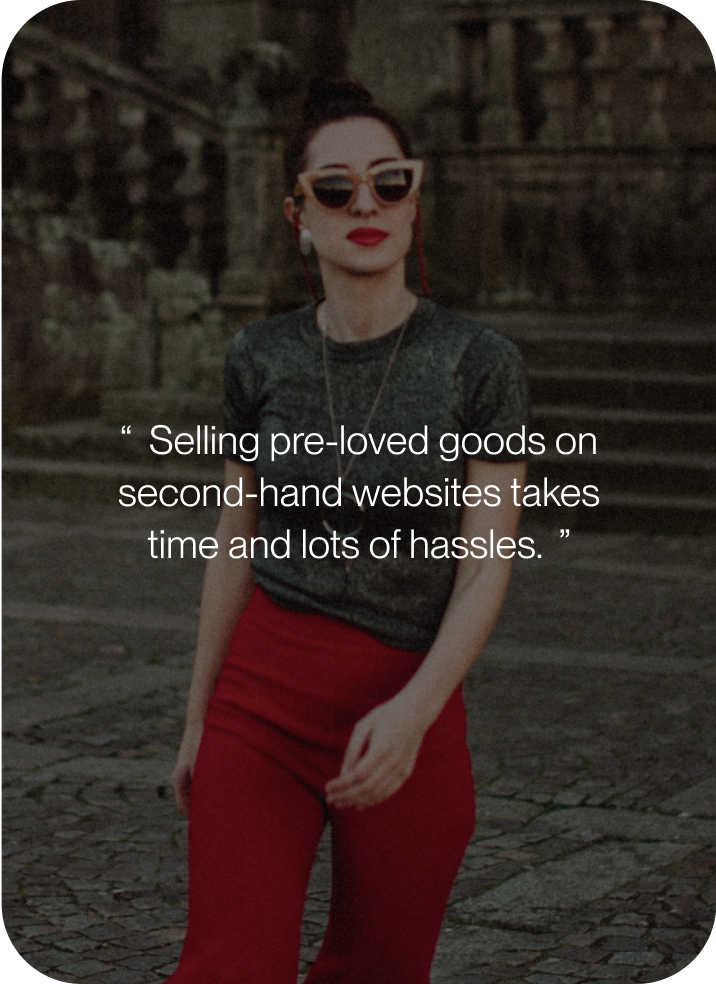
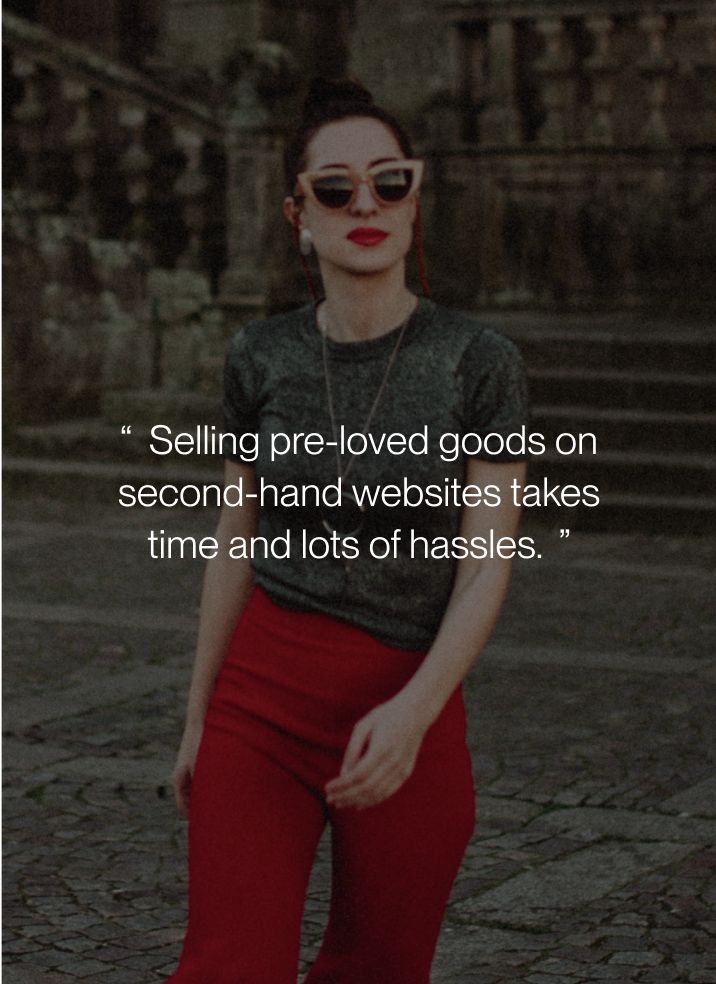
card hover adj

diff --git a/CSS/main.css b/CSS/main.css
@@ -607,6 +607,8 @@ footer a {
     display: block;
     width: 100%;
     height: auto;
+    border-radius: 40px;
+    border: 0.4px solid white;
 }
 
 .hover {
@@ -617,6 +619,8 @@ footer a {
     width: 100%;
     opacity: 0;
     transition: .5s ease;
+    border-radius: 40px;
+    border: 0.4px solid white;
 }
 
 .hover-cont:hover .hover {
